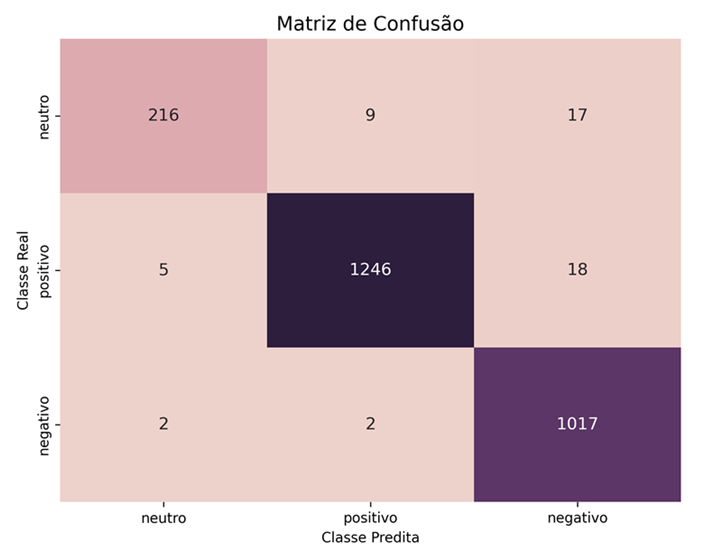
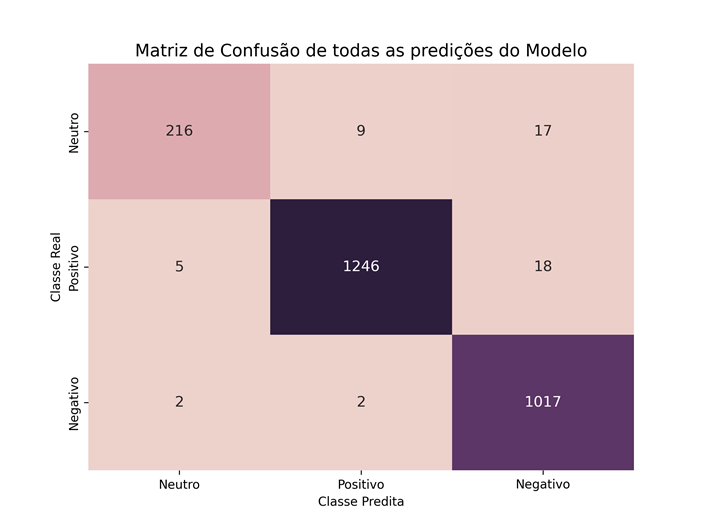
docs: add model overall metrics

diff --git a/🏠Home.py b/🏠Home.py
@@ -29,23 +29,23 @@ def introduction():
        pode ser a chave para atrair talentos, encantar clientes e impulsionar
        o sucesso empresarial.
 
-       A fim de identificar as emoções nas avaliações no Glassdoor de 22
-       empresas de Tecnologia de Cuiabá, foi criado um Modelo de IA utilizando
-       a técnica de Transfer Learning com BERT (Bidirectional Encoder
-       Representations from Transformers), um Modelo de linguagem pré-treinado
-       que utiliza a representação bidirecional de texto para entender o
-       contexto das palavras em uma frase ou texto.
+       A fim de **identificar as emoções nas avaliações no Glassdoor de 22
+       empresas de Tecnologia de Cuiabá**, foi criado um Modelo de IA
+       utilizando a técnica de Transfer Learning com **BERT (Bidirectional
+       Encoder Representations from Transformers)**, um Modelo de linguagem
+       pré-treinado que utiliza a representação bidirecional de texto para
+       entender o contexto das palavras em uma frase ou texto.
 
-       O Modelo pré-treinado utilizado como base para a criação do Modelo de
-       identificação de sentimentos foi o BERTimbau, um Modelo que consiste no
-       BERT, mas treinado com a língua portuguesa. Os insights que surgiram da
-       análise das avaliações no Glassdoor são apresentados a seguir.
+       O Modelo pré-treinado utilizado como base para a criação do **Modelo de
+       classificação de sentimentos** foi o **BERTimbau**, um Modelo que consiste
+       no BERT, mas treinado com a língua portuguesa. Os insights que surgiram
+       da análise das avaliações no Glassdoor são apresentados a seguir.
 """
     )
 
 
 def general_analysis():
-    st.subheader("Distribuição de sentimentos das avaliações")
+    st.subheader("Treinamento do Modelo")
 
     st.markdown(
         """
@@ -55,12 +55,37 @@ def general_analysis():
         os sentimentos das avaliações extraídas no Glassdoor, foi necessário
         preparar os dados. Essa preparação envolveu:
 
+
+        *Extrair as avaliações do Glassdoor*
+
+        Para isto, criou-se um **scraper** para baixar as páginas HTML de
+        avaliações no Glassdoor das empresas pré-selecionadas e,
+        posteriormente, extrair dados relevantes desssas páginas, como
+        **texto da avaliação**, **cargo do avaliador**, **quantidade de
+        estrelas da avaliação**, etc.
+
+        A partir destes dados extraídos, criou-se um
+        dataset com todas as informações extraídas, onde cada avaliação
+        foi classificada como **Positiva** ou **Negativa**, de acordo com a
+        seção onde esta se encontrava na página, onde avaliações da seção
+        **Prós** foram classificadas como **Positivas** e avaliações da seção
+        **Contras** foram classificadas como **Negativas**.
+
         *Classificação manual das avaliações*
 
-        Uma parte das avaliações foi classificada manualmente, utilizando uma
-        ferramenta de anotação criada pelo próprio autor. Esse conjunto de
-        dados extraídos e classificados manualmente é chamado de "sentimentos
-        anotados" e serviu como base de treinamento e validação para o modelo.
+        Durante a **Análise Exploratória dos Dados**, identificou-se a
+        necessidade de criação de uma nova classe de sentimento para as
+        avaliações, pois haviam casos onde nem o sentimento Positivo ou o
+        Negativo eram apropriados. Assim, optou-se pela criação da classe
+        **Neutro**.
+
+        Com o auxílio do modelo pré-treinado
+        [citizenlab/twitter-xlm-roberta-base-sentiment-finetunned](https://huggingface.co/citizenlab/twitter-xlm-roberta-base-sentiment-finetunned),
+        que classifica sentimentos em texto de diversos idiomas, incluindo o
+        Português, foi possível classificar as avaliações com sentimento
+        Neutro. Posteriormente, essas avaliações Neutras precisaram ser
+        revisadas  manualmente, o que foi feito com o auxílio de uma
+        ferramenta de anotação de dados criada pelo próprio autor.
 
         *Tratamento do desequilíbrio de classes*
 
@@ -71,7 +96,7 @@ def general_analysis():
         técnica de oversampling na classe Neutro, replicando aleatoriamente
         algumas amostras dessa classe durante o treinamento. Isso ajudou a
         balancear a distribuição das classes e melhorar o desempenho do modelo
-        na identificação correta de avaliações Neutras.
+        na identificação correta de avaliações neutras.
 
         **Resultados**
 
@@ -101,21 +126,19 @@ def general_analysis():
         classifica a entrada em uma das três classes de sentimento: Neutro,
         Positivo ou Negativo.
 
-        ![Arquitetura do modelo](https://github.com/stevillis/glassdoor-reviews-report/blob/master/img/arquitetura_do_modelo.png?raw=true "Arquitetuar do Modelo")
+        ![Arquitetura do modelo](https://github.com/stevillis/glassdoor-reviews-report/blob/master/img/arquitetura_do_modelo.png?raw=true "Arquitetura do Modelo")
 
         *Treinamento do Modelo*
 
         O modelo foi treinado utilizando 80% dos dados disponíveis, enquanto
         os 20% restantes foram reservados para testes. A tabela a seguir
-        apresenta as métricas de desempenho do modelo treinado. As linhas 0,
-        1 e 2 representam, respectivamente, as classes: Neutro, Positivo e
-        Negativo.
+        apresenta as métricas de desempenho do modelo treinado.
 
-        |              | precision | recall | f1-score | support |
+        |  sentimento  | precision | recall | f1-score | support |
         | ------------ | --------- | ------ | -------- | ------- |
-        | 0            | 0.96      | 0.98   | 0.97     | 197     |
-        | 1            | 0.92      | 0.98   | 0.95     | 256     |
-        | 2            | 0.98      | 0.88   | 0.93     | 199     |
+        | Neutro       | 0.96      | 0.98   | 0.97     | 197     |
+        | Positivo     | 0.92      | 0.98   | 0.95     | 256     |
+        | Negativo     | 0.98      | 0.88   | 0.93     | 199     |
         | accuracy     |           |        | 0.95     | 652     |
         | macro avg    | 0.96      | 0.95   | 0.95     | 652     |
         | weighted avg | 0.95      | 0.95   | 0.95     | 652     |
@@ -195,7 +218,7 @@ def general_analysis():
     ax[0].set_title(
         "Distribuição de sentimentos anotados",
         loc="center",
-        fontsize=14,
+        fontsize=ReportConfig.CHART_TITLE_FONT_SIZE,
     )
 
     # Predicted sentiment
@@ -238,7 +261,7 @@ def general_analysis():
     ax[1].set_title(
         "Distribuição de sentimentos classificados pelo modelo",
         loc="center",
-        fontsize=14,
+        fontsize=ReportConfig.CHART_TITLE_FONT_SIZE,
     )
 
     ax[1].spines["top"].set_visible(False)
@@ -247,6 +270,53 @@ def general_analysis():
 
     plt.tight_layout()
     st.pyplot(fig)
+
+    st.subheader("Avaliação Geral do Modelo")
+
+    st.write(
+        """
+        *Matriz de Confusão*
+
+        A matriz de confusão é uma ferramenta fundamental na avaliação do
+        desempenho de modelos de classificação, permitindo uma análise
+        detalhada dos acertos e erros do modelo em relação às classes reais.
+
+        ![Matriz de Confusão](https://github.com/stevillis/glassdoor-reviews-report/blob/master/img/confusion_matrix.png?raw=true "Matriz de Confusão")
+
+        A matriz de confusão apresentada mostra o desempenho geral do modelo,
+        permitindo uma interpretação clara dos resultados obtidos em relação
+        aos sentimentos classificados:
+
+        - Sentimento Neutro (Linha 1):
+            - O modelo **corretamente** previu **216** avaliações como neutras.
+            - O modelo incorretamente previu 9 avaliações como positivas.
+            - O modelo incorretamente previu 17 avaliações como negativas.
+
+        - Sentimento Positivo (Linha 2):
+            - O modelo incorretamente previu 5 avaliações como neutras.
+            - O modelo **corretamente** previu **1246** avaliações como
+            positivas.
+            - O modelo incorretamente previu 18 avaliações como negativas.
+
+        - Sentimento Negativo (Linha 3):
+            - O modelo incorretamente previu 2 avaliações como neutras.
+            - O modelo incorretamente previu 2 avaliações como positivas.
+            - O modelo **corretamente** previu **1017** avaliações como
+            negativas.
+
+        À partir da Matriz de Confusão, foram calculadas as métricas do modelo,
+        apresentadas as seguir, que evidenciam sua eficácia na classificação
+        de sentimentos, destacando especialmente a acurácia, que superou os
+        resultados obtidos durante a fase de treinamento. Essa melhoria indica
+        um desempenho robusto e confiável do modelo em situações reais.
+        | sentimento         | precision | recall   | f1-score |
+        |--------------------|-----------|----------|----------|
+        | Neutro             | 0.9686    | 0.8926   | 0.9290   |
+        | Positivo           | 0.9912    | 0.9819   | 0.9865   |
+        | Negativo           | 0.9667    | 0.9961   | 0.9812   |
+        | Acurácia Geral     |           |          | 0.9791   |
+    """
+    )
 
 
 def positive_reviews_ranking():
@@ -288,7 +358,7 @@ def positive_reviews_ranking():
             xy=(p.get_width(), (p.get_y() + p.get_height() / 2)),
             ha="center",
             va="center",
-            fontsize=9,
+            fontsize=10,
             color="black",
             xytext=(10, 0),
             textcoords="offset points",
@@ -328,6 +398,13 @@ def positive_reviews_ranking():
         edgecolor="1",
         ncols=3,
     )
+
+    # plt.savefig(
+    #     "positive_reviews_by_company.png",
+    #     transparent=True,
+    #     dpi=300,
+    #     bbox_inches="tight",
+    # )
 
     st.pyplot(fig)
 
@@ -369,7 +446,7 @@ def negative_reviews_ranking():
             xy=(p.get_width(), (p.get_y() + p.get_height() / 2)),
             ha="center",
             va="center",
-            fontsize=9,
+            fontsize=10,
             color="black",
             xytext=(10, 0),
             textcoords="offset points",
@@ -409,6 +486,13 @@ def negative_reviews_ranking():
         edgecolor="1",
         ncols=3,
     )
+
+    # plt.savefig(
+    #     "negative_reviews_by_company.png",
+    #     transparent=True,
+    #     dpi=300,
+    #     bbox_inches="tight",
+    # )
 
     st.pyplot(fig)
 
@@ -1147,6 +1231,8 @@ if __name__ == "__main__":
         # Reviews DF
         reviews_df = pd.read_csv("./glassdoor_reviews_predicted.csv")
 
+        # TODO:check where the "sentiment" column is used and if it is being
+        # used instead of "predicted_sentiment"
         reviews_df["sentiment"] = reviews_df["sentiment"].apply(
             lambda x: 2 if x == -1 else x
         )
